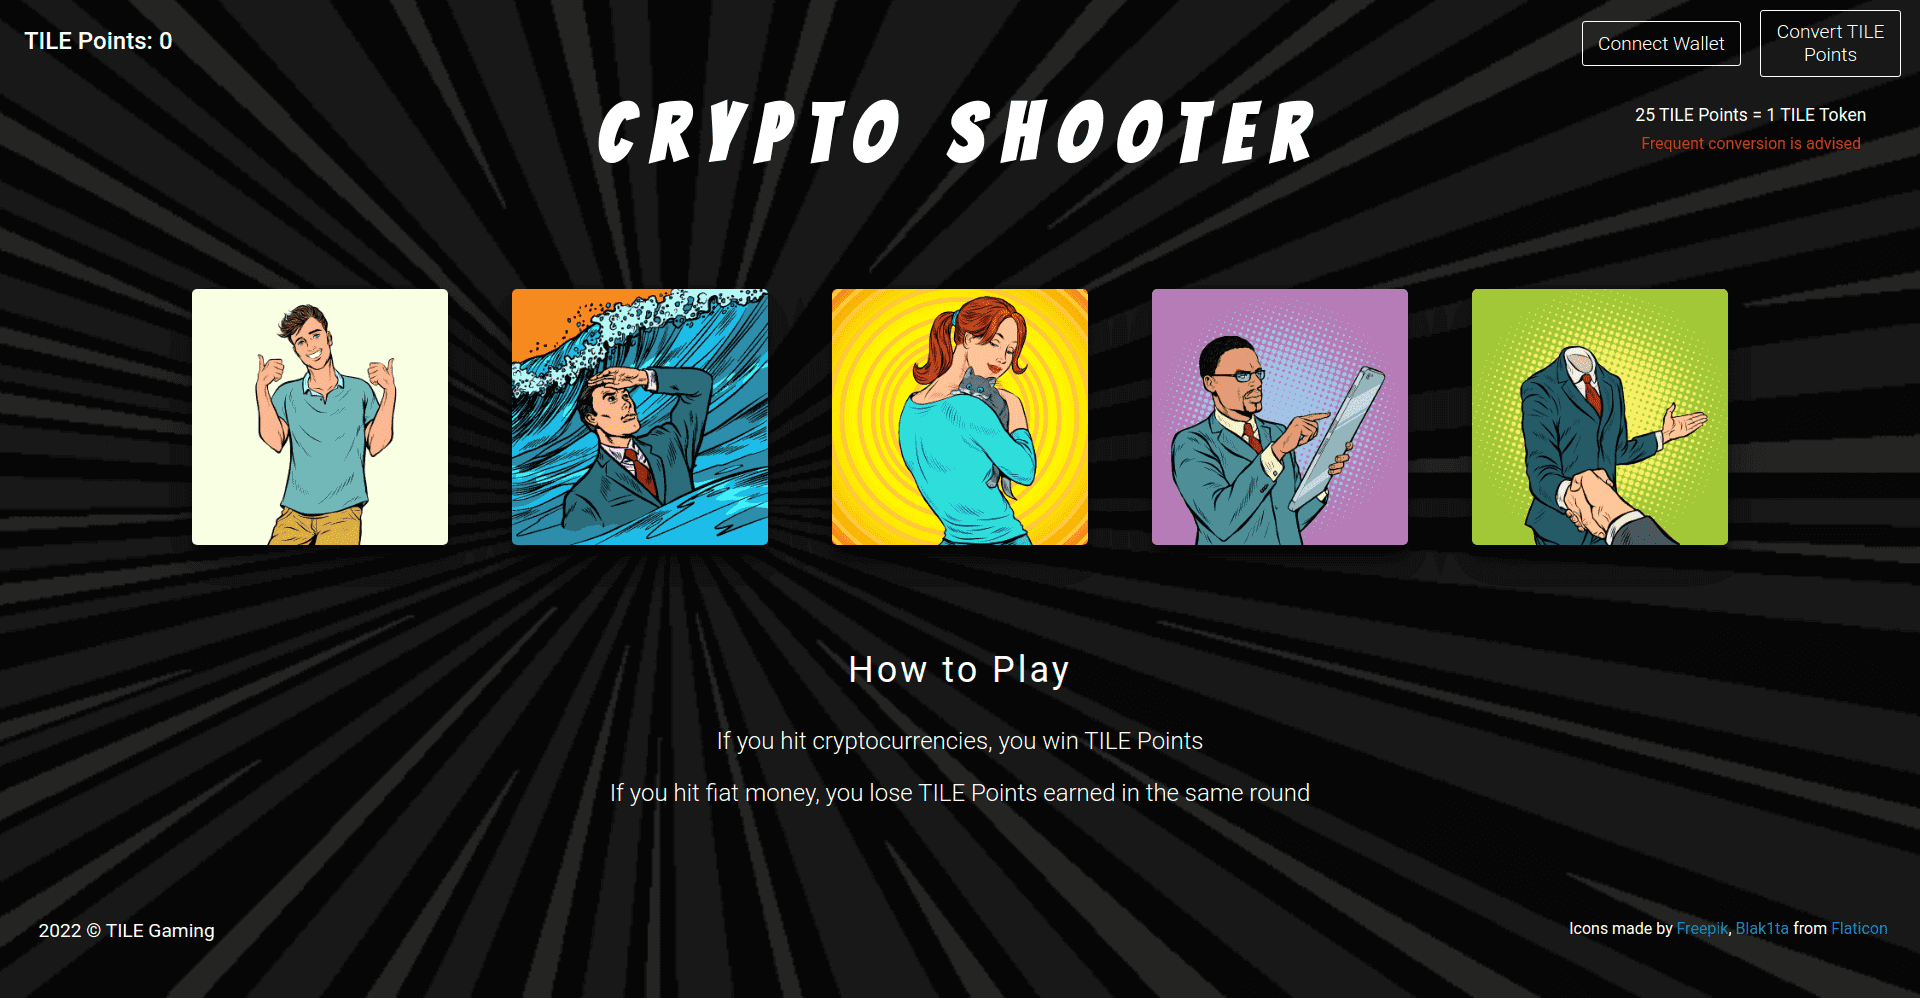
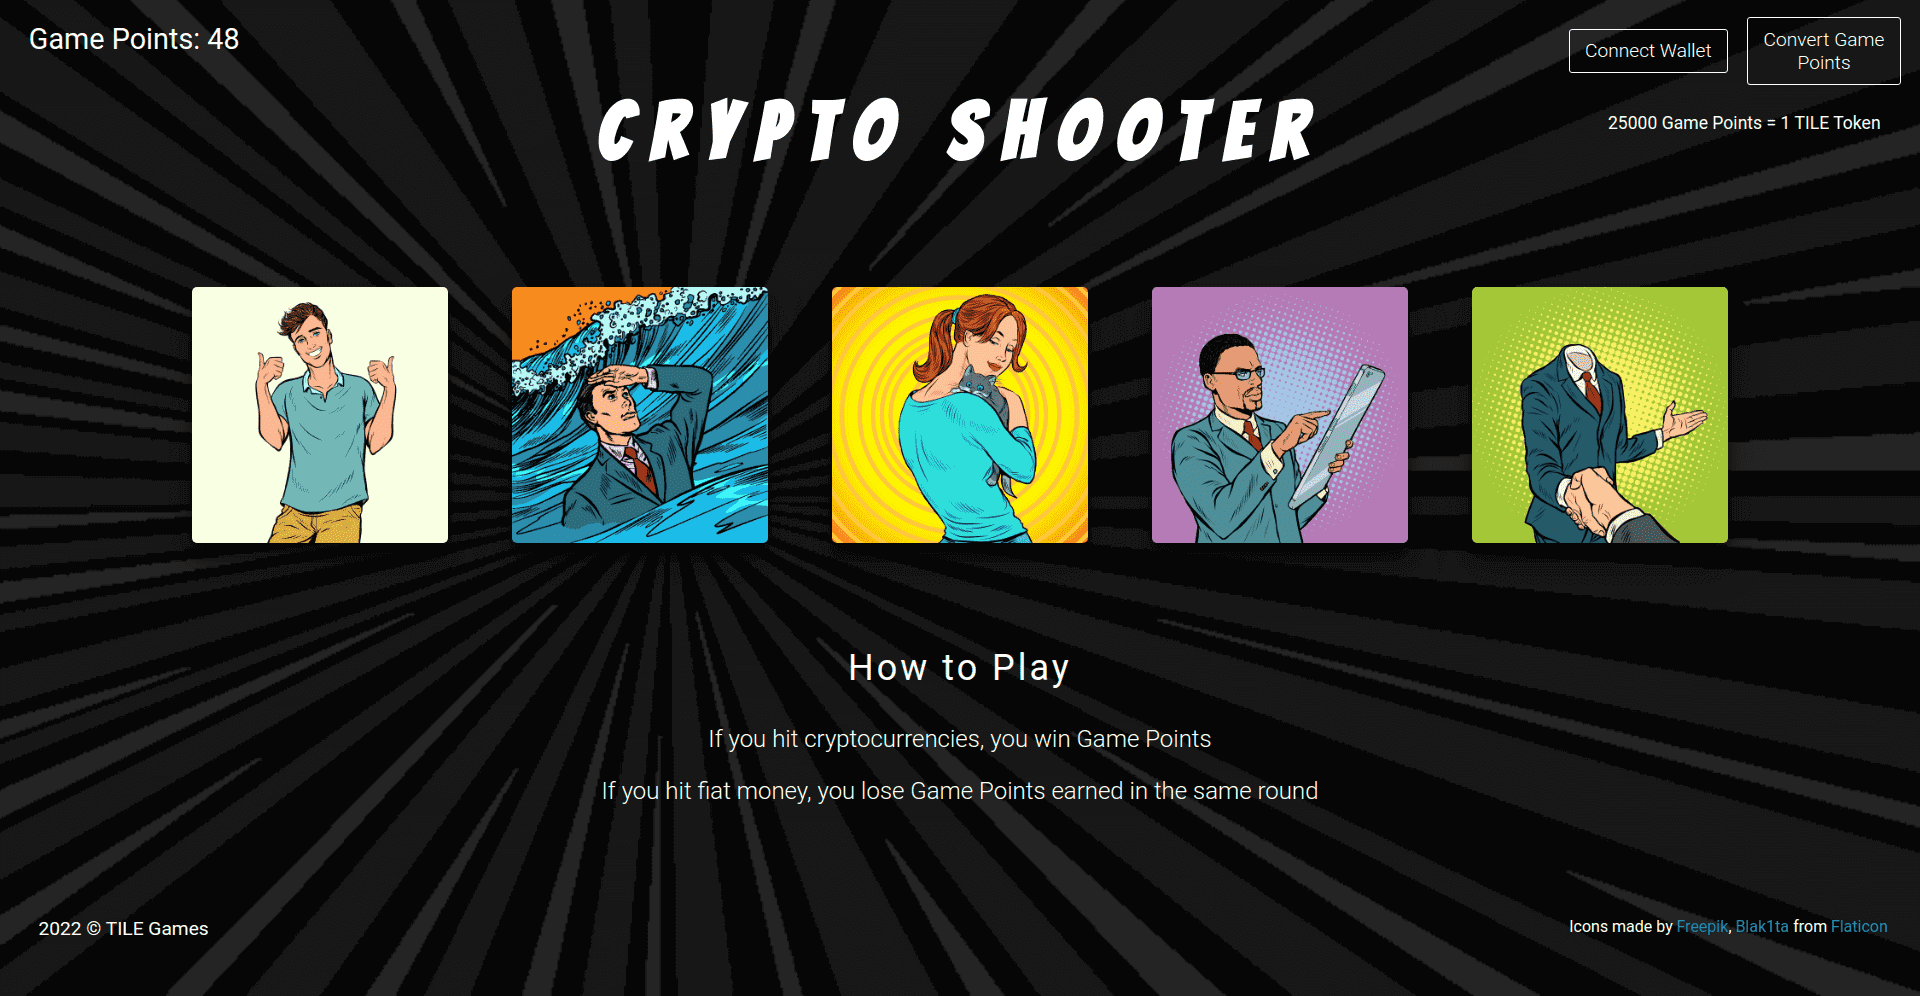
update screenshots  and documentation

diff --git a/doc/GameA.md b/doc/GameA.md
@@ -1,4 +1,4 @@
-![TILE Games Logo](./img/logo.png) 
+![TILE Games Logo](./img/logo.png)
 
 ## Game A: Crypto Shooter
 
@@ -6,20 +6,17 @@
 2. The major design requirements for the games were to be **playable, bug free, open-source** (so that the team can check for security) and that the games contain standard code snippets that are called to interact with the Oasis network through the TILE Games Platform.
 3. The first built-in crypto game is [**Crypto Shooter**](https://github.com/tunahandanis/demo-aim-game), where crypto enthusiasts practice their reflex motor skills by catching crypto coins (+1 point each), but avoiding fiat currencies (-1 point each).
 
-At the end of the game, the Gamer should convert his game points to TILE coins, otherwise the earned points may be lost. 
+The Gamer can convert Game Points to TILE Tokens on the home page.
 
 Below are screenshots from the Crypto Shooter game:
-
-
-
 
 ### Further Remarks on the Built-in Games
 
 1. This is the first time, to the best of our knowledge, that a **gaming platform** is developed **with ready Oasis-themed games** in it at the moment of submission to a hackathon.
 2. **All content** in the games (images, icons, music, sound) are **provably copyright-granted** to one of the team members. Proof documents can be presented upon request.
 3. The platform is designed such that other P2E games, especially open-source JavaScript games, can be added to the platform just by adding certain standard code snippets to interact with the platform.
-4. New games can be submitted by any creator to the Developer Team and then are uploaded. 
-5. The platform is composable; in the future, new games can be embedded into the platform through direct uploading of the docker file, zip file or submission of the GitHub repository link and then the approval of the game by the Developer Team. 
+4. New games can be submitted by any creator to the Developer Team and then are uploaded.
+5. The platform is composable; in the future, new games can be embedded into the platform through direct uploading of the docker file, zip file or submission of the GitHub repository link and then the approval of the game by the Developer Team.
 
 ## Index
 
@@ -34,7 +31,6 @@ Below are screenshots from the Crypto Shooter game:
 9. [Technology/Tool Stack](TechnologyStack.md)
 10. [Future Work for TILE Games](FuturePlans.md)
 11. [Branding](Branding.md)
-
 
 <hline></hline>
 

diff --git a/doc/GameB.md b/doc/GameB.md
@@ -1,4 +1,4 @@
-![TILE Games Logo](./img/logo.png) 
+![TILE Games Logo](./img/logo.png)
 
 ## Game B: Crypto Cards
 
@@ -7,21 +7,17 @@
 3. The [first built-in crypto game](GameA.md) is [**Crypto Shooter**](https://github.com/tunahandanis/demo-aim-game), where crypto enthusiasts practice their reflex motor skills by catching crypto coins (+1 point each), but avoiding fiat currencies (-1 point each).
 4. The second built-in crypto game is [**Crypto Cards**](https://github.com/tunahandanis/memory-game), where crypto enthusiasts improve their memory by matching card pairs with the same crypto coin logos.
 
-At the end of the game, the Gamer should convert his game points to TILE coins, otherwise the earned points may be lost. 
+The Gamer can convert Game Points to TILE Tokens on the home page.
 
 Below are screenshots from the Crypto Shooter game:
-
-
-
 
 ### Further Remarks on the Built-in Games
 
 1. This is the first time, to the best of our knowledge, that a **gaming platform** is developed **with ready Oasis-themed games** in it at the moment of submission to a hackathon.
 2. **All content** in the games (images, icons, music, sound) are **provably copyright-granted** to one of the team members. Proof documents can be presented upon request.
 3. The platform is designed such that other P2E games, especially open-source JavaScript games, can be added to the platform just by adding certain standard code snippets to interact with the platform.
-4. New games can be submitted by any creator to the Developer Team and then are uploaded. 
-5. The platform is composable; in the future, new games can be embedded into the platform through direct uploading of the docker file, zip file or submission of the GitHub repository link and then the approval of the game by the Developer Team. 
-
+4. New games can be submitted by any creator to the Developer Team and then are uploaded.
+5. The platform is composable; in the future, new games can be embedded into the platform through direct uploading of the docker file, zip file or submission of the GitHub repository link and then the approval of the game by the Developer Team.
 
 ## Index
 
@@ -36,7 +32,6 @@ Below are screenshots from the Crypto Shooter game:
 9. [Technology/Tool Stack](TechnologyStack.md)
 10. [Future Work for TILE Games](FuturePlans.md)
 11. [Branding](Branding.md)
-
 
 <hline></hline>
 
